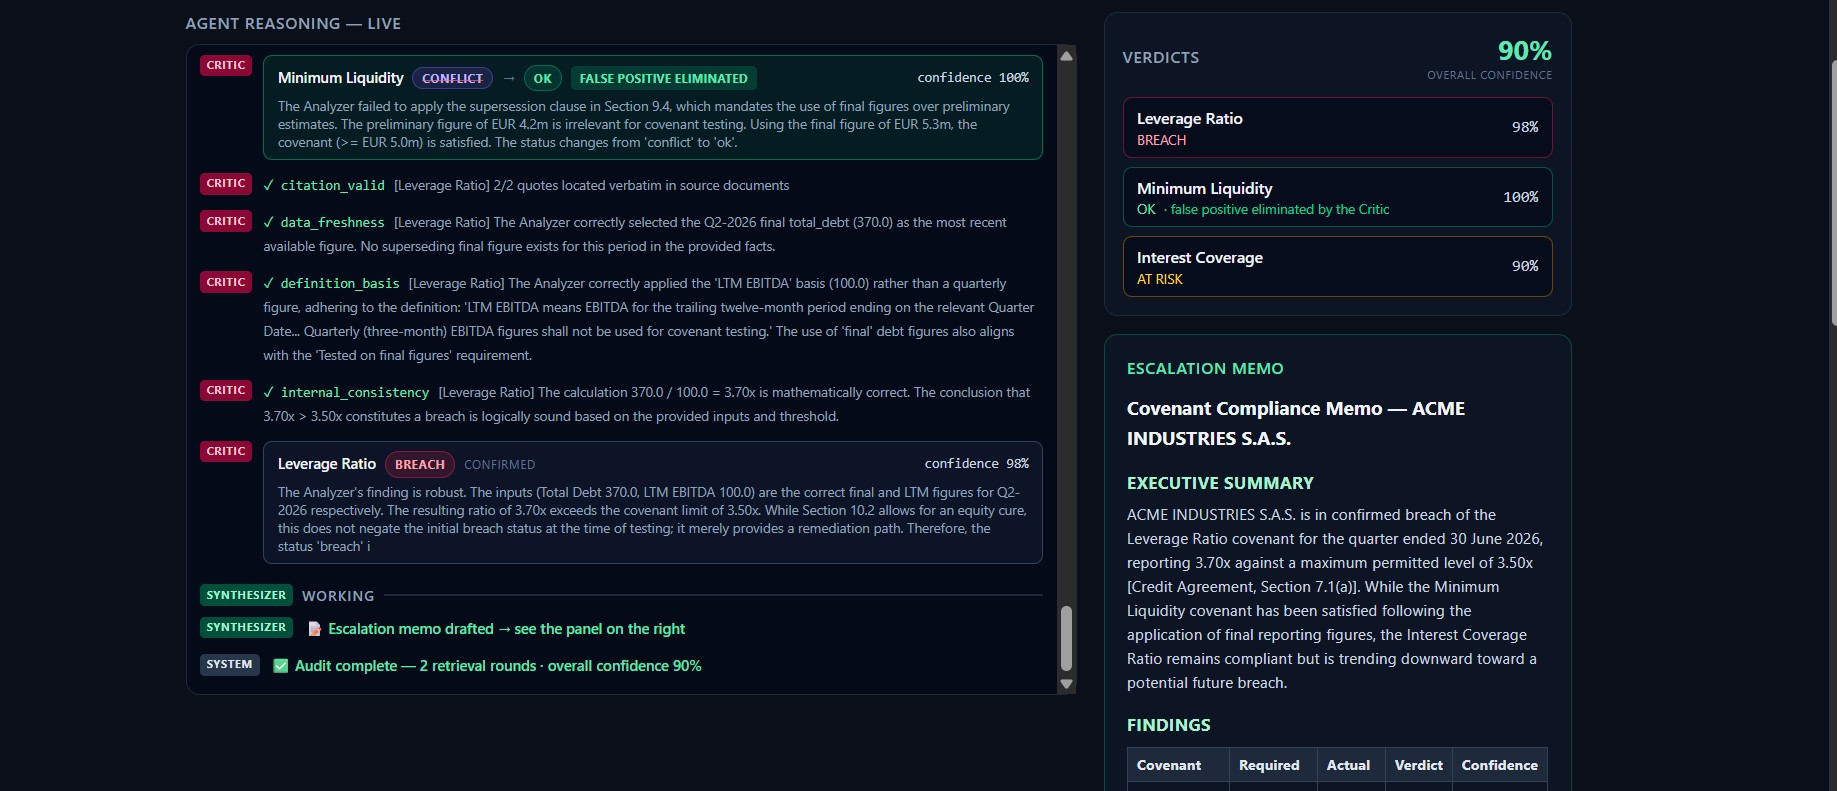
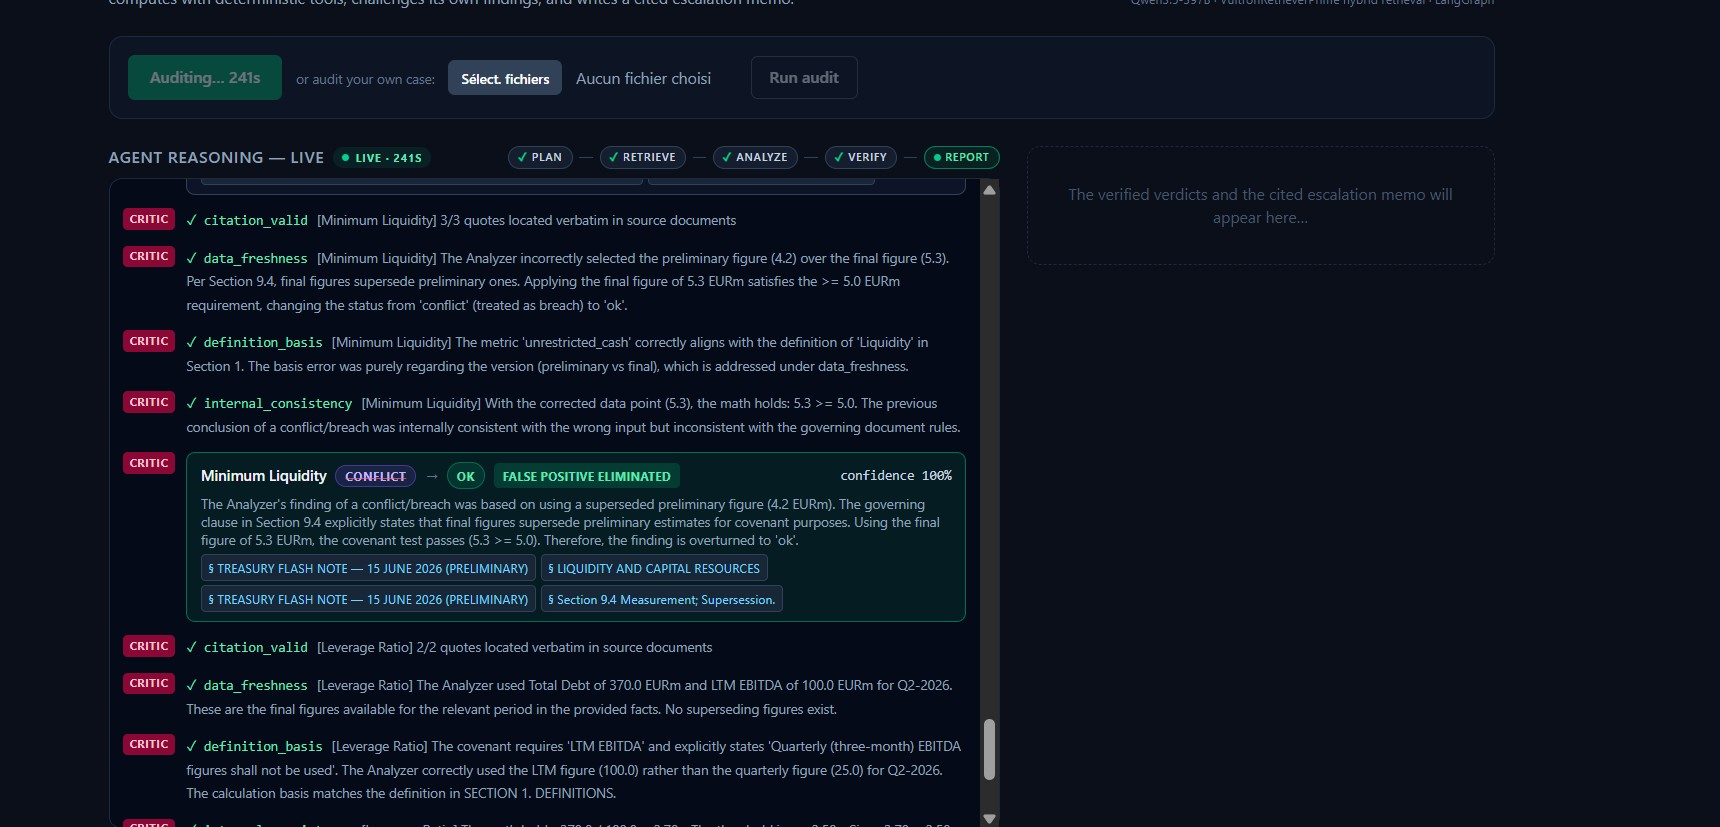
UX: sticky results column fits one screen (verdicts, ask, memo with internal scroll), slim scrollbars, ?run= instant replay mode, Playwright screenshot QA tooling, refreshed README captures

diff --git a/frontend/src/App.tsx b/frontend/src/App.tsx
@@ -81,6 +81,21 @@ export default function App() {
     return () => clearInterval(timer);
   }, [running]);
 
+  // ?run=<id> instantly replays a finished audit (design QA, emergency demo)
+  const replayStartedRef = useRef(false);
+  useEffect(() => {
+    const replayId = new URLSearchParams(window.location.search).get("run");
+    if (!replayId || replayStartedRef.current) return;
+    replayStartedRef.current = true;
+    runIdRef.current = replayId;
+    setRunning(true);
+    stopRef.current = streamAudit(
+      replayId,
+      (event) => setEvents((previous) => [...previous, event]),
+      () => setRunning(false),
+    );
+  }, []);
+
   useEffect(() => {
     const container = traceRef.current;
     if (container && stickToBottomRef.current) {
@@ -197,7 +212,7 @@ export default function App() {
           <div
             ref={traceRef}
             onScroll={handleTraceScroll}
-            className="max-h-[75vh] overflow-y-auto rounded-xl border border-slate-800 bg-slate-950/60 py-2"
+            className="slim-scroll max-h-[80vh] overflow-y-auto rounded-xl border border-slate-800 bg-slate-950/60 py-2"
           >
             {events.length === 0 ? (
               <div className="px-4 py-10 text-center text-sm text-slate-500">
@@ -212,7 +227,7 @@ export default function App() {
           </div>
         </section>
 
-        <section className="min-w-0">
+        <section className="slim-scroll min-w-0 lg:sticky lg:top-4 lg:max-h-[calc(100vh-2.5rem)] lg:self-start lg:overflow-y-auto lg:pr-1">
           {memoPayload ? (
             <MemoPanel
               memoMarkdown={memoPayload.markdown}

diff --git a/frontend/src/index.css b/frontend/src/index.css
@@ -10,6 +10,25 @@ body {
   font-family: ui-sans-serif, system-ui, "Segoe UI", sans-serif;
 }
 
+/* Slim, recessive scrollbars for internal panels */
+.slim-scroll {
+  scrollbar-width: thin;
+  scrollbar-color: #2c3a52 transparent;
+}
+.slim-scroll::-webkit-scrollbar {
+  width: 8px;
+}
+.slim-scroll::-webkit-scrollbar-track {
+  background: transparent;
+}
+.slim-scroll::-webkit-scrollbar-thumb {
+  background: #2c3a52;
+  border-radius: 8px;
+}
+.slim-scroll::-webkit-scrollbar-thumb:hover {
+  background: #3b4d6b;
+}
+
 /* One-shot celebration glow when the Critic eliminates a false positive */
 @keyframes glow-pulse {
   0% {

diff --git a/frontend/src/components/MemoPanel.tsx b/frontend/src/components/MemoPanel.tsx
@@ -30,7 +30,7 @@ function AskAuditor({ runId }: { runId: string }) {
       <p className="mt-1 text-xs text-slate-500">
         Answers come only from this audit's record — verdicts, facts, causes and clauses.
       </p>
-      <div className="mt-3 space-y-3">
+      <div className="slim-scroll mt-3 max-h-[22vh] space-y-3 overflow-y-auto pr-1">
         {thread.map((entry, index) => (
           <div key={index} className="text-[13px]">
             <div className="font-medium text-sky-300">Q: {entry.q}</div>
@@ -119,14 +119,18 @@ export function MemoPanel({
         </div>
       </div>
 
+      {runId && <AskAuditor runId={runId} />}
+
       <div className="rounded-xl border border-emerald-500/30 bg-slate-900/60 p-5">
         <h3 className="mb-3 text-sm font-semibold uppercase tracking-wider text-emerald-300">
           Escalation memo
         </h3>
-        <div
-          className="memo-prose"
-          dangerouslySetInnerHTML={{ __html: renderMarkdown(memoMarkdown) }}
-        />
+        <div className="slim-scroll max-h-[40vh] overflow-y-auto rounded-lg border border-slate-800/60 bg-slate-950/40 p-3 pr-2">
+          <div
+            className="memo-prose"
+            dangerouslySetInnerHTML={{ __html: renderMarkdown(memoMarkdown) }}
+          />
+        </div>
         <button
           onClick={() => navigator.clipboard.writeText(memoMarkdown)}
           className="mt-4 rounded-md border border-slate-700 bg-slate-800 px-3 py-1.5 text-xs font-medium text-slate-200 transition hover:bg-slate-700"
@@ -134,8 +138,6 @@ export function MemoPanel({
           Copy memo (markdown)
         </button>
       </div>
-
-      {runId && <AskAuditor runId={runId} />}
     </div>
   );
 }

diff --git a/README.md b/README.md
@@ -4,7 +4,7 @@
 
 > 🏗️ Built from scratch during the **RAISE Summit Hackathon 2026** (July 4–5, Paris) — **Vultr Enterprise Agent track** · Remote · Every commit in this repository was made during the event.
 
-![Live audit — the agent planning, retrieving, computing and deciding in real time](docs/ui-live-audit.jpg)
+![The full audit view — live reasoning trace, verified verdicts, grounded Q&A, and the cited escalation memo, all in one screen](docs/ui-overview.png)
 
 ## The problem
 
@@ -33,7 +33,9 @@ flowchart LR
 7. **Critic pass** — a second, adversarial reviewer re-checks every finding: citation validity (**verified mechanically in code**, not by a model), data freshness, definition basis, internal consistency — and kills false positives
 8. **Synthesizes** — an escalation memo a credit officer could actually send: verdicts table, root cause with the unexplained portion called out, eliminated false positives, early warnings, clause-cited recommended actions
 
-![The signature moment — the Critic eliminates a false positive by citing the governing clause](docs/ui-critic-moment.jpg)
+![Live audit — deterministic tool calls, a breach card with its drift sparkline, and the agent deciding it needs more evidence](docs/ui-live-audit.jpg)
+
+![The signature moment — the Critic's checks and the false positive eliminated by citing the governing clause](docs/ui-critic-moment.jpg)
 
 ## The two demo cases
 